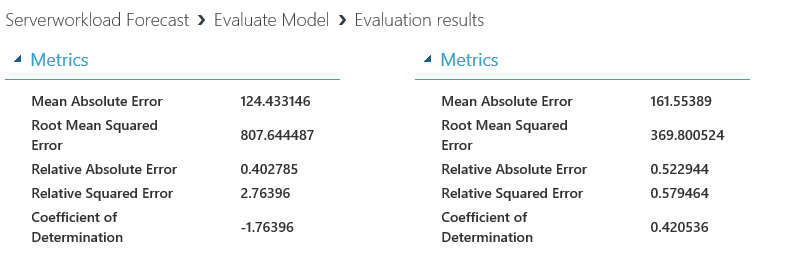
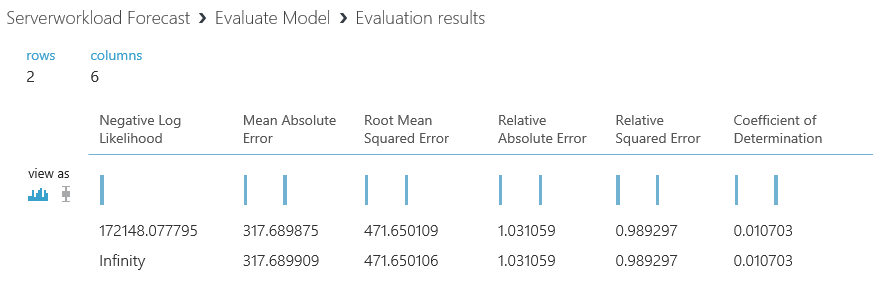
upload images

diff --git a/ServerWorkloadForecast/03.01.ServerWorkLoadForecast.md b/ServerWorkloadForecast/03.01.ServerWorkLoadForecast.md
@@ -16,28 +16,36 @@ This is third step of four steps.
 
 ## 1. Import Data 
 
+Update name of this experiment for example, 'Serverworkload Forecast'.
+
 ![import data](../images/40.png)
 
-__Select__ 'Web URL via HTTP' for 'Data Source', __copy__ below address and __paste__ it for 'Data Source URL'. Leave 'Data Format' as CSV.
+Use following table for properties of 'Import Data' module.
 
-```
-https://mtcsdataai.blob.core.windows.net/serverworkload/Serverworkload.csv
-```
-
-And __click__ 'Run' experiment.
+|Name|Value|
+|---|---|
+|Data Source|Web URL via HTTP|
+|URL|https://mtcsdataai.blob.core.windows.net/serverworkload/Serverworkload.csv|
+|Data Format|CSV|
+|Header|check|
+|Cache|Check|
 
 ![import data](../images/41.png)
+
+And __click__ 'Run' experiment.
 
 > Since 35 MB of data source is being copied from  blob to your ML Studio, it may take 30 sec to 40 sec denpen on network.
 
 ## 2. Select features
 
 Use 'Select Columns in Dataset' to select columns.
-```
-ServerIP, peakLoad, month, dayofmonth, hourofday, dayofweek, holiday, businesshour, morning
-```
 
-![import data](../images/42.png)
+![import data](../images/42.01.png)
+
+
+To select columns use numeric columns only option.
+
+![import data](../images/42.02.png)
 
 
 ## 3. Clean Missing Data
@@ -45,6 +53,20 @@ ServerIP, peakLoad, month, dayofmonth, hourofday, dayofweek, holiday, businessho
 Use 'Clean Missing Data' module to replace missing values to 0.
 
 ![import data](../images/43.png)
+
+## 4. Select Features
+
+Use 'Select Columns in Dataset' to select columns.
+
+![import data](../images/43.01.png)
+
+Select following columns for experiment.
+
+|Columns|
+|---|
+|peakLoad<br/>dayofmonth<br/>hourofday<br/>Holiday<br/>month|
+
+![import data](../images/43.02.png)
 
 ## NEXT
 Continue this lab [Setp 2. Train Model](./03.02.TrainModel.md)

diff --git a/ServerWorkloadForecast/03.02.TrainModel.md b/ServerWorkloadForecast/03.02.TrainModel.md
@@ -13,24 +13,29 @@ This is third step of four steps.
 1. Tune Model
 
 ***
-## 4. Split Data
+## 5. Split Data
+
+Use 'Split Data' module.
 
 ![import data](../images/44.png)
 
-## 5. Train Model
+## 6. Train Model
 
-Use two 'Train Model' modules on canvas. And make connections for each dataset inputs on 'Train Model'
-And use 'Boosted Decision Tree Regression' and 'Linear Regression' for this lab.
+Drop two 'Train Model' modules on canvas. And make connections for each dataset inputs on 'Train Model' with left output port of 'Split Data'. 
 
-![import data](../images/45.png)
+![import data](../images/45.01.png)
 
-__Select__ 'PeakLoad' for lable. And make connection for each model and 'Train Model' module.
+__Select__ 'PeakLoad' for lable.
 
 ![import data](../images/46.png)
 
-## 6. Score Model
+And use 'Bayesian Linear Regression' and 'Linear Regression' for this lab. And Make connection for each model and 'Train Model' module.
 
-To score models, use 'Score Model' module. Make connections for each experiment.
+![import data](../images/45.png)
+
+## 7. Score Model
+
+To score models, use 'Score Model' module. Make connections for each experiment and 'Run' the experiment.
 
 ![import data](../images/47.png)
 

diff --git a/ServerWorkloadForecast/03.04.TuneModel.md b/ServerWorkloadForecast/03.04.TuneModel.md
@@ -16,17 +16,25 @@ This is third step of four steps.
 
 *This taks will take more than 14 mintues due to hyperparameter tunning.*
 
-## 8. Tune Hyperparameter 
+## 9. Tune Hyperparameter 
 
 Use 'Tune Hyperparameter' module to find optimal hyperparameters.
 
 ![import data](../images/49.png)
 
+__Select__ peakLoad for label.
+
 ![import data](../images/50.png)
+
+__Select__ for parameter.
 
 ![import data](../images/51.png)
 
 ![import data](../images/52.png)
+
+Make connection between 'Tune Model Hyperparameters' and 'Train Model'.
+
+![import data](../images/52.02.png)
 
 Run experiment.
 
@@ -34,10 +42,29 @@ After the expriment, check how R2 has changed.
 
 ![import data](../images/53.png)
 
-## 9. Tune Hyperparameter 
+## 9. Feature selection
+
+Delete ''.
+
+![import data](../images/54.png)
+
+Search and add 'Filter Based Feature Selection' on canvas.
+
+
+![import data](../images/55.png)
+
+![import data](../images/56.png)
+
+![import data](../images/57.png)
+
+As a result, cofficient of Determination has increased.
+
+![import data](../images/58.png)
+
+
+## 10. Tune Hyperparameter 
 
 Change hyperparameter sweeping option to 'Entire grid' and __run__ experiment.
-
 
 ![import data](../images/54.png)
 

diff --git a/ServerWorkloadForecast/03.03.EvaluateModel.md b/ServerWorkloadForecast/03.03.EvaluateModel.md
@@ -14,9 +14,14 @@ This is third step of four steps.
 
 ***
 
-## 7. Use Evaluate  
+## 8. Use Evaluate  
 
-'Coefficient of Determination' shows negative result on left model.
+Search and drop 'Evaluation Model' on canvas. Make connection between both 'Score Model's and the 'Evaluation Model'
+'Run' the experiment and review 'Coefficient of Determination'.
+
+![import data](../images/47.02.png)
+
+It shows no difference.
 
 ![import data](../images/48.png)
 
